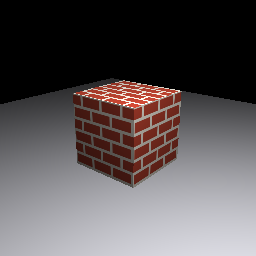
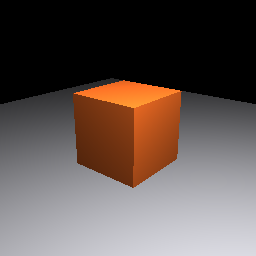
Swap brick texture for plain orange texture in examples

Changed region(s): [[0.2812, 0.3125, 0.7188, 0.75]]

diff --git a/Examples/RasterizedCube/Sources/RasterizedCube/Scene.swift b/Examples/RasterizedCube/Sources/RasterizedCube/Scene.swift
@@ -155,31 +155,18 @@ struct TextureData {
     var height: Int
     var pixels: [UInt8]   // width * height * 4 bytes
 
-    /// A flat brick-and-mortar texture in a running-bond layout, generated procedurally
-    /// so the example needs no asset files. Pure albedo (two solid colors, no gradient
-    /// or bevel) so the scene's point light alone provides all shading.
-    static func brick(size: Int = 128) -> TextureData {
-        let mortar = (0.82, 0.80, 0.76)   // light warm grey
-        let brick  = (0.62, 0.22, 0.16)   // brick red
-        let rowH   = max(4, size / 6)
-        let brickW = max(4, size / 3)
-        let m      = max(1, size / 24)    // mortar thickness
-
+    /// A plain single-colour texture, generated procedurally so the example needs no
+    /// asset files. Still a real sampled texture — every texel is `color`.
+    static func solid(_ color: Vec3, size: Int = 16) -> TextureData {
+        let r = UInt8(max(0, min(255, Int(color.x * 255))))
+        let g = UInt8(max(0, min(255, Int(color.y * 255))))
+        let b = UInt8(max(0, min(255, Int(color.z * 255))))
         var px = [UInt8](repeating: 0, count: size * size * 4)
-        for y in 0..<size {
-            for x in 0..<size {
-                let row = y / rowH
-                let off = (row % 2 == 0) ? 0 : brickW / 2   // running bond
-                let bx  = (x + off) % brickW
-                let by  = y % rowH
-                let c   = (bx < m || by < m) ? mortar : brick
-
-                let i = (y * size + x) * 4
-                px[i + 0] = UInt8(max(0, min(255, Int(c.0 * 255))))
-                px[i + 1] = UInt8(max(0, min(255, Int(c.1 * 255))))
-                px[i + 2] = UInt8(max(0, min(255, Int(c.2 * 255))))
-                px[i + 3] = 255
-            }
+        for i in 0..<(size * size) {
+            px[i * 4 + 0] = r
+            px[i * 4 + 1] = g
+            px[i * 4 + 2] = b
+            px[i * 4 + 3] = 255
         }
         return TextureData(width: size, height: size, pixels: px)
     }
@@ -316,12 +303,12 @@ extension Scene {
             ambient: 0.08)
 
         let materials: [Material] = [
-            .textured(),                                       // cube — brick texture
+            .textured(),                                       // cube — orange texture
             .solid(Vec3(0.58, 0.58, 0.60), shininess: 8, specStrength: 0.05),  // plane — neutral grey
         ]
 
         return Scene(camera: camera, light: light,
                      objects: [cube, plane], materials: materials,
-                     texture: .brick())
+                     texture: .solid(Vec3(1.0, 0.45, 0.15)))
     }
 }

diff --git a/Examples/RayTracedCube/Sources/RayTracedCube/Scene.swift b/Examples/RayTracedCube/Sources/RayTracedCube/Scene.swift
@@ -91,31 +91,18 @@ struct TextureData {
     var height: Int
     var pixels: [UInt8]   // width * height * 4 bytes
 
-    /// A flat brick-and-mortar texture in a running-bond layout, generated procedurally
-    /// so the example needs no asset files. Pure albedo (two solid colors, no gradient
-    /// or bevel) so the scene's point light alone provides all shading.
-    static func brick(size: Int = 128) -> TextureData {
-        let mortar = (0.82, 0.80, 0.76)   // light warm grey
-        let brick  = (0.62, 0.22, 0.16)   // brick red
-        let rowH   = max(4, size / 6)
-        let brickW = max(4, size / 3)
-        let m      = max(1, size / 24)    // mortar thickness
-
+    /// A plain single-colour texture, generated procedurally so the example needs no
+    /// asset files. Still a real sampled texture — every texel is `color`.
+    static func solid(_ color: Vec3, size: Int = 16) -> TextureData {
+        let r = UInt8(max(0, min(255, Int(color.x * 255))))
+        let g = UInt8(max(0, min(255, Int(color.y * 255))))
+        let b = UInt8(max(0, min(255, Int(color.z * 255))))
         var px = [UInt8](repeating: 0, count: size * size * 4)
-        for y in 0..<size {
-            for x in 0..<size {
-                let row = y / rowH
-                let off = (row % 2 == 0) ? 0 : brickW / 2   // running bond
-                let bx  = (x + off) % brickW
-                let by  = y % rowH
-                let c   = (bx < m || by < m) ? mortar : brick
-
-                let i = (y * size + x) * 4
-                px[i + 0] = UInt8(max(0, min(255, Int(c.0 * 255))))
-                px[i + 1] = UInt8(max(0, min(255, Int(c.1 * 255))))
-                px[i + 2] = UInt8(max(0, min(255, Int(c.2 * 255))))
-                px[i + 3] = 255
-            }
+        for i in 0..<(size * size) {
+            px[i * 4 + 0] = r
+            px[i * 4 + 1] = g
+            px[i * 4 + 2] = b
+            px[i * 4 + 3] = 255
         }
         return TextureData(width: size, height: size, pixels: px)
     }
@@ -258,13 +245,13 @@ extension Scene {
             ambient: 0.08)
 
         let materials: [Material] = [
-            .textured(),                                       // cube — brick texture
+            .textured(),                                       // cube — orange texture
             .solid(Vec3(0.58, 0.58, 0.60), shininess: 8, specStrength: 0.05),  // plane — neutral grey
         ]
 
         return Scene(camera: camera, light: light,
                      objects: [cube, plane], materials: materials,
-                     texture: .brick())
+                     texture: .solid(Vec3(1.0, 0.45, 0.15)))
     }
 }
 

diff --git a/Examples/RasterizedCube/Sources/RasterizedCube/main.swift b/Examples/RasterizedCube/Sources/RasterizedCube/main.swift
@@ -80,15 +80,15 @@ let depthTexDesc = MTLTextureDescriptor.texture2DDescriptor(
 depthTexDesc.usage = .renderTarget
 let depthTexture = device.makeTexture(descriptor: depthTexDesc)!
 
-// MARK: - Brick texture + sampler (real filtered sampling, unlike the ray example)
+// MARK: - Cube texture + sampler (real filtered sampling, unlike the ray example)
 
 let texData = scene.texture
-let brickDesc = MTLTextureDescriptor.texture2DDescriptor(
+let texDesc = MTLTextureDescriptor.texture2DDescriptor(
     pixelFormat: .rgba8Unorm, width: texData.width, height: texData.height, mipmapped: false)
-brickDesc.usage = .shaderRead
-let brickTexture = device.makeTexture(descriptor: brickDesc)!
+texDesc.usage = .shaderRead
+let cubeTexture = device.makeTexture(descriptor: texDesc)!
 texData.pixels.withUnsafeBytes {
-    brickTexture.replace(
+    cubeTexture.replace(
         region: .make2D(width: texData.width, height: texData.height),
         mipmapLevel: 0, withBytes: $0.baseAddress!, bytesPerRow: texData.width * 4)
 }
@@ -144,7 +144,7 @@ let cb  = queue.makeCommandBuffer()!
 let enc = cb.makeRenderCommandEncoder(descriptor: pass)!
 enc.setRenderPipelineState(pipeline)
 enc.setDepthStencilState(depthState)
-enc.setFragmentTexture(brickTexture, index: 0)       // set 1, binding 0
+enc.setFragmentTexture(cubeTexture, index: 0)        // set 1, binding 0
 enc.setFragmentSamplerState(sampler, index: 0)
 
 for (i, obj) in scene.objects.enumerated() {

diff --git a/Examples/RasterizedCube/README.md b/Examples/RasterizedCube/README.md
@@ -2,8 +2,8 @@
 
 Rasterizes a textured cube resting on a ground plane, lit by a point light, and writes
 the result to `output.ppm` (256×256). It renders the **same scene** as
-[RayTracedCube](../RayTracedCube) — same camera, light, geometry, materials, and brick
-texture — but through the raster pipeline instead of ray queries.
+[RayTracedCube](../RayTracedCube) — same camera, light, geometry, materials, and
+solid-colour texture — but through the raster pipeline instead of ray queries.
 
 Demonstrates: render pipeline + vertex descriptor, a vertex/fragment shader pair, a
 depth buffer, per-object draws with model/view/projection matrices, point-light
